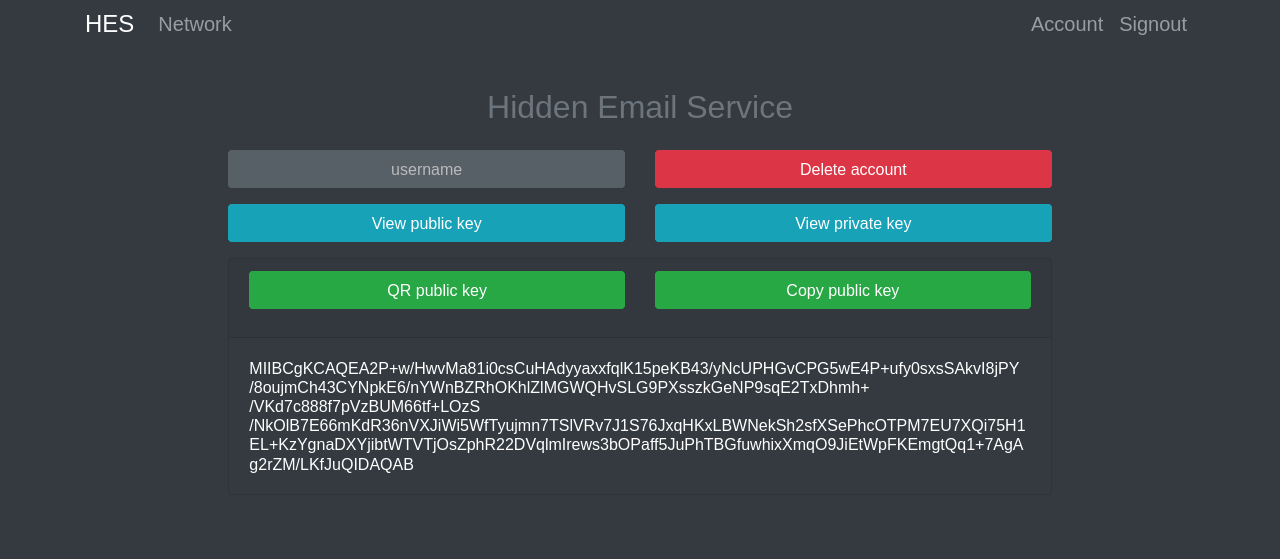
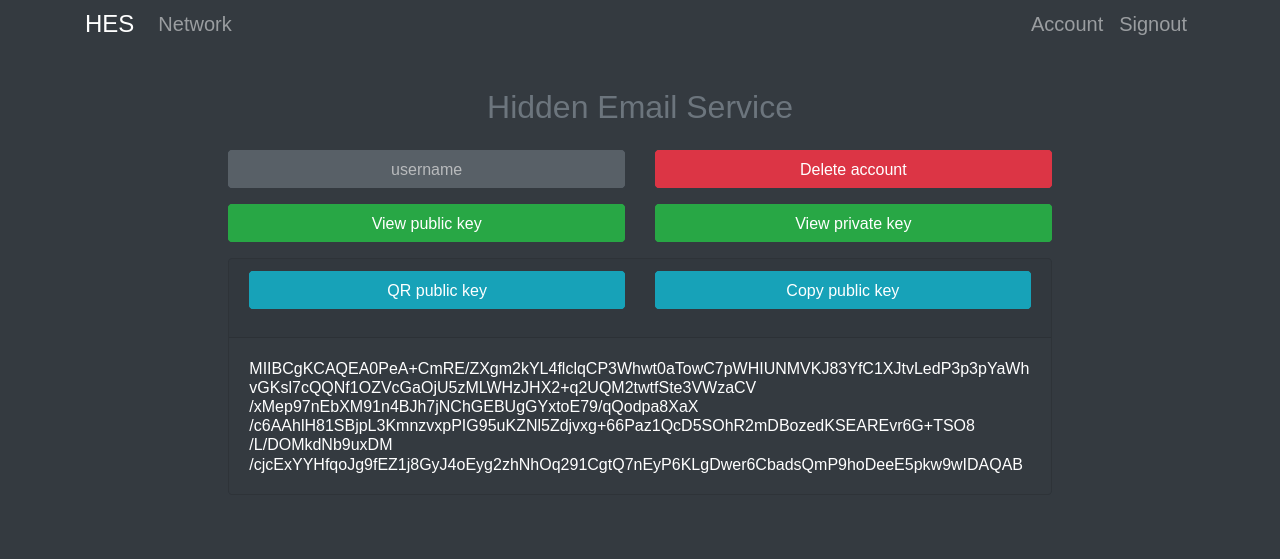
append newlines in email

Changed region(s): [[0.1875, 0.6386, 0.8125, 0.8515], [0.1562, 0.3649, 0.8438, 0.4562], [0.1875, 0.4866, 0.8125, 0.5778]]

diff --git a/userside/views/account.html b/userside/views/account.html
@@ -21,22 +21,22 @@
 	</div>
 	<div class="form-group row">
 		<div class="col-md-6 w-50">
-			<button type="button" class="btn btn-info w-100" onclick="view_block('view_public_key'); close_block('view_private_key'); close_block('input_password')">View public key</button>
+			<button type="button" class="btn btn-success w-100" onclick="view_block('view_public_key'); close_block('view_private_key'); close_block('input_password')">View public key</button>
 		</div>
 		<div class="col-md-6 w-50">
-			<button type="button" class="btn btn-info w-100" onclick="view_block('view_private_key'); close_block('view_public_key'); close_block('input_password')">View private key</button>
+			<button type="button" class="btn btn-success w-100" onclick="view_block('view_private_key'); close_block('view_public_key'); close_block('input_password')">View private key</button>
 		</div>
 	</div>
 	<div id="view_public_key" style="display: none" class="card text-white bg-dark mb-3">
 		<div class="card-header">
 			<div class="form-group row">
 				<div class="col-md-6 w-50">
-					<form class="text-center" method="POST" action="/account/public_key">
-						<input type="submit" name="submit" value="QR public key" class="btn btn-success w-100">
-					</form>
+					<button type="button" class="btn btn-info w-100" onclick="copy_text('public_key')">Copy public key</button>
 				</div>
 				<div class="col-md-6 w-50">
-					<button type="button" class="btn btn-success w-100" onclick="copy_text('public_key')">Copy public key</button>
+					<form class="text-center" method="POST" action="/account/public_key">
+						<input type="submit" name="submit" value="QR public key" class="btn btn-info w-100">
+					</form>
 				</div>
 			</div>
 		</div>
@@ -48,12 +48,12 @@
 		<div class="card-header">
 			<div class="form-group row">
 				<div class="col-md-6 w-50">
-					<form class="text-center" method="POST" action="/account/private_key">
-						<input type="submit" name="submit" value="QR private key" class="btn btn-success w-100">
-					</form>
+					<button type="button" class="btn btn-info w-100" onclick="copy_text('private_key')">Copy private key</button>
 				</div>
 				<div class="col-md-6 w-50">
-					<button type="button" class="btn btn-success w-100" onclick="copy_text('private_key')">Copy private key</button>
+					<form class="text-center" method="POST" action="/account/private_key">
+						<input type="submit" name="submit" value="QR private key" class="btn btn-info w-100">
+					</form>
 				</div>
 			</div>
 		</div>

diff --git a/userside/views/read.html b/userside/views/read.html
@@ -23,17 +23,20 @@
 				</form>
 			</div>
 		</div>
+		{{ $msg := (split .Email.Body "\n") }}
 		<div class="card text-white bg-dark mb-3">
 			<h5 class="card-header bg-secondary">Email</h5>
+			<h5 class="card-header bg-dark">{{ .Email.Head }}</h5>
 		  	<div class="card-body">
-		    	<h5 class="card-title">{{ .Email.Head }}</h5>
-		    	<h6 class="card-text">{{ .Email.Body }}</h6>
+		    	{{ range $msg }}
+		    		<h6 class="card-text">{{ . }}</h6>
+		    	{{ end }}
 		  	</div>
 		</div>
 		<div class="card text-white bg-dark mb-3">
 			<h5 class="card-header bg-secondary">Sender</h5>
+			<h5 class="card-header bg-dark">{{ .Email.SenderName }}</h5>
 		  	<div class="card-body">
-		  		<h5 class="card-title">{{ .Email.SenderName }}</h5>
 		    	<h6 class="card-text">{{ .Email.SenderPubl }}</h6>
 		  	</div>
 		</div>

diff --git a/client.go b/client.go
@@ -420,13 +420,16 @@ func networkReadPage(w http.ResponseWriter, r *http.Request) {
 		Email *Email
 	}
 	retcod, result := makeResult(RET_SUCCESS, "")
-	t, err := template.ParseFiles(
+	t, err := template.New("base.html").Funcs(template.FuncMap{
+		"split": strings.Split,
+	}).ParseFiles(
 		PATH_VIEWS+"base.html",
 		PATH_VIEWS+"read.html",
 	)
 	if err != nil {
 		panic("error: load read.html")
 	}
+	t = template.Must(t, err)
 	user := SESSIONS.Get(r)
 	if user == nil {
 		http.Redirect(w, r, "/", 302)
